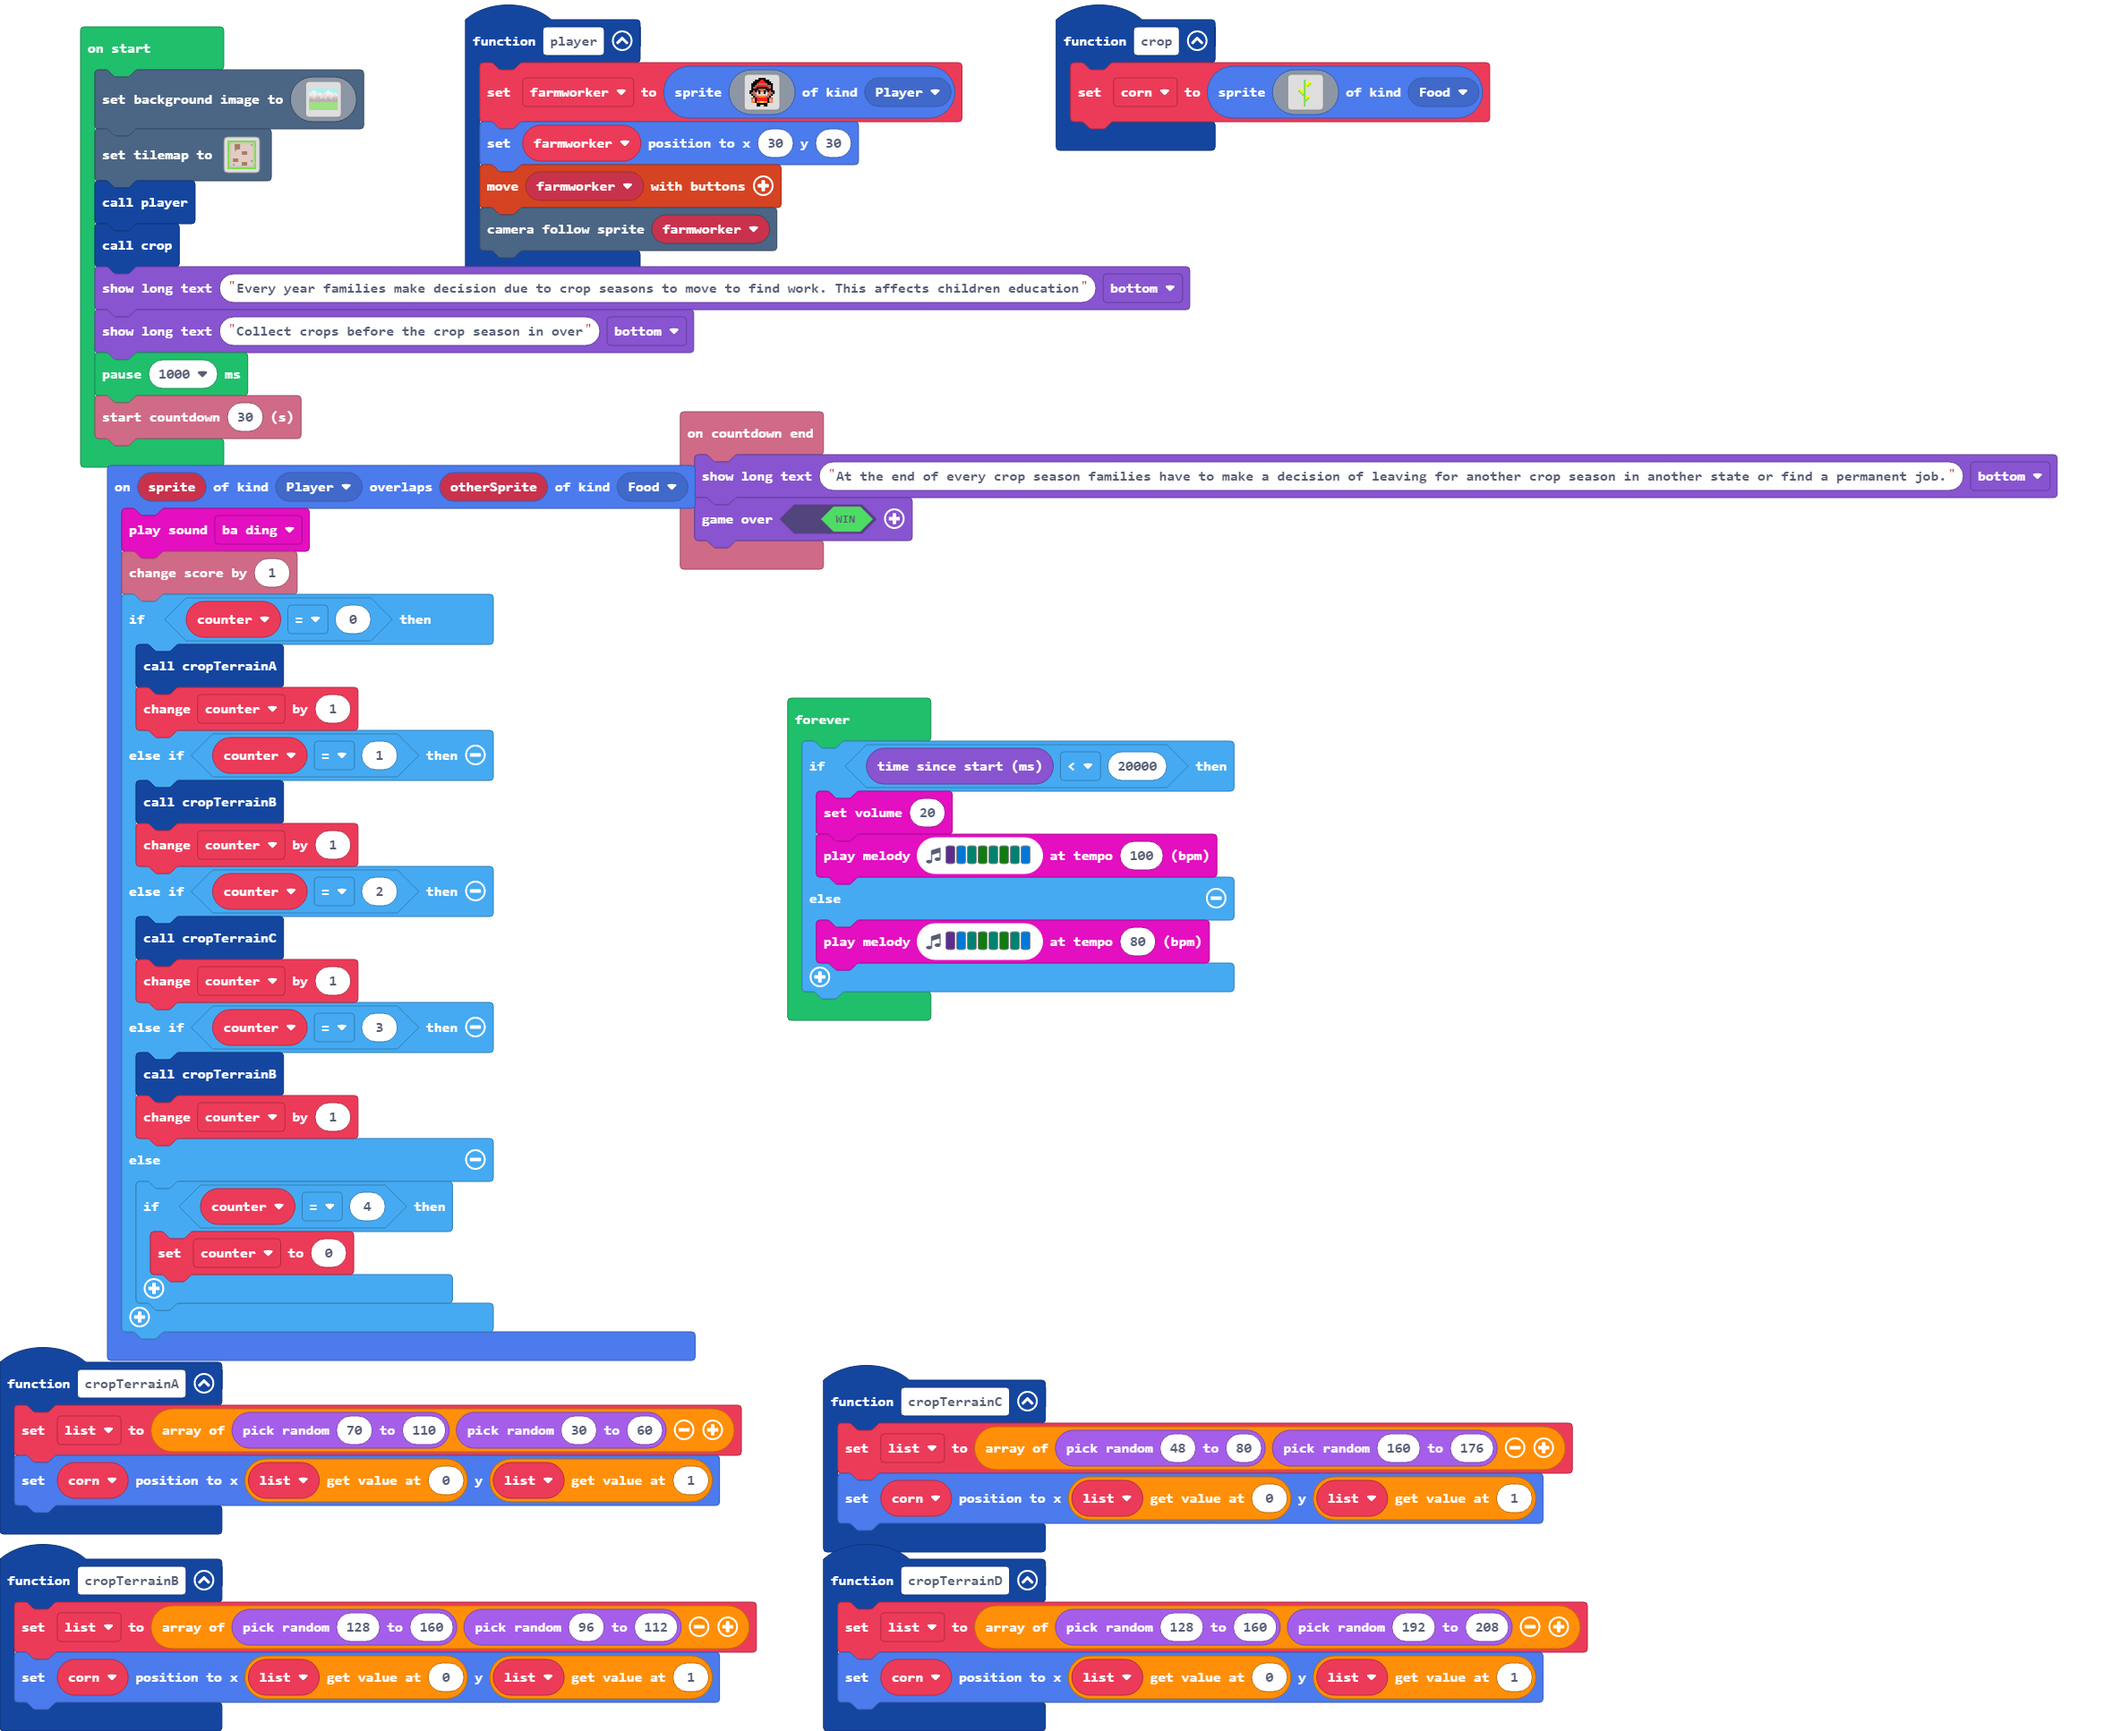
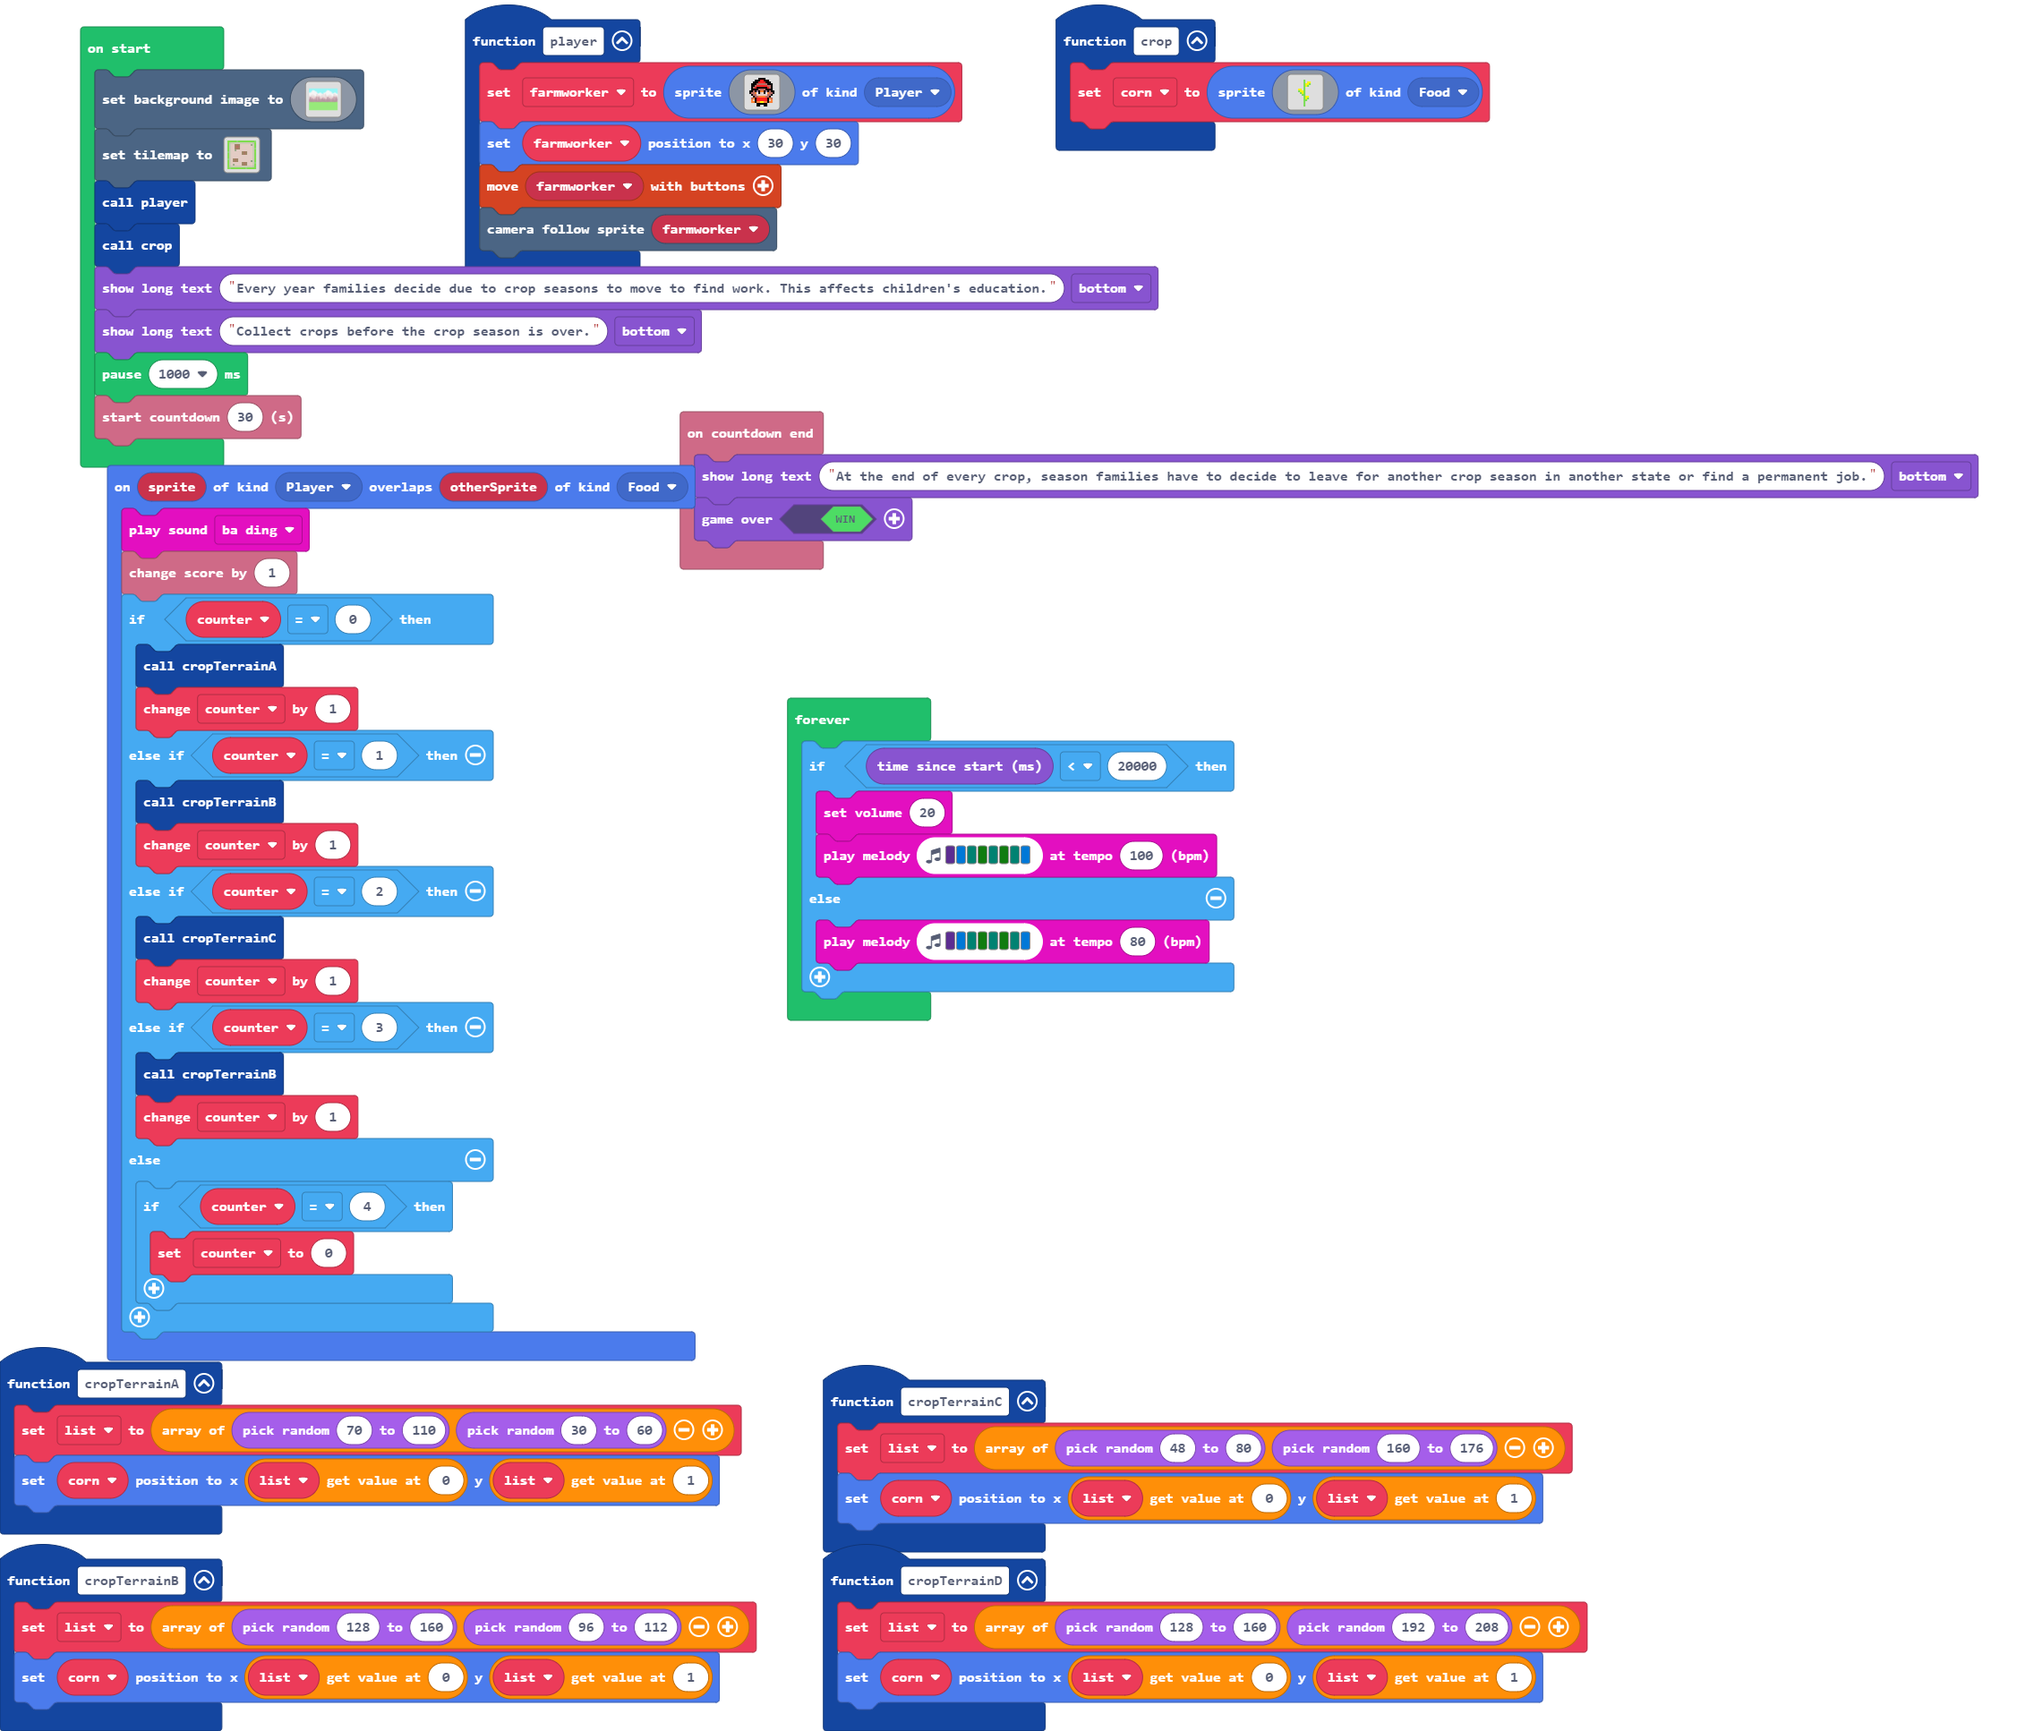
Update main.blocks, main.ts

diff --git a/main.ts b/main.ts
@@ -10,7 +10,7 @@ function cropTerrainC () {
     corn.setPosition(list[0], list[1])
 }
 info.onCountdownEnd(function () {
-    game.showLongText("At the end of every crop season families have to make a decision of leaving for another crop season in another state or find a permanent job.", DialogLayout.Bottom)
+    game.showLongText("At the end of every crop, season families have to decide to leave for another crop season in another state or find a permanent job.", DialogLayout.Bottom)
     game.over(true)
 })
 function cropTerrainD () {
@@ -194,8 +194,8 @@ scene.setBackgroundImage(img`
 tiles.setTilemap(tilemap`level1`)
 player2()
 crop()
-game.showLongText("Every year families make decision due to crop seasons to move to find work. This affects children education", DialogLayout.Bottom)
-game.showLongText("Collect crops before the crop season in over", DialogLayout.Bottom)
+game.showLongText("Every year families decide due to crop seasons to move to find work. This affects children's education.", DialogLayout.Bottom)
+game.showLongText("Collect crops before the crop season is over.", DialogLayout.Bottom)
 pause(1000)
 info.startCountdown(30)
 forever(function () {
